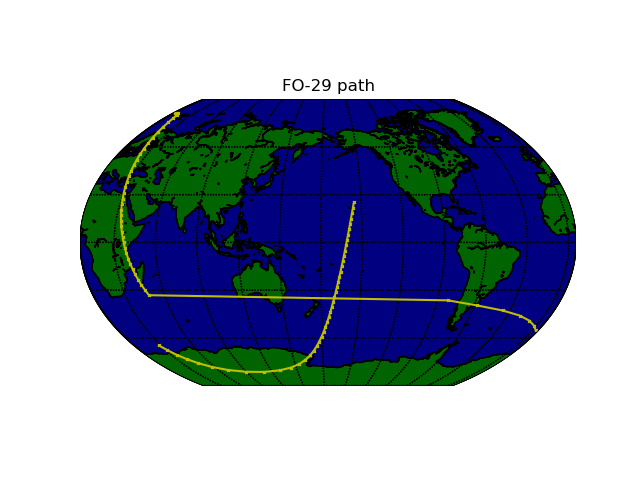
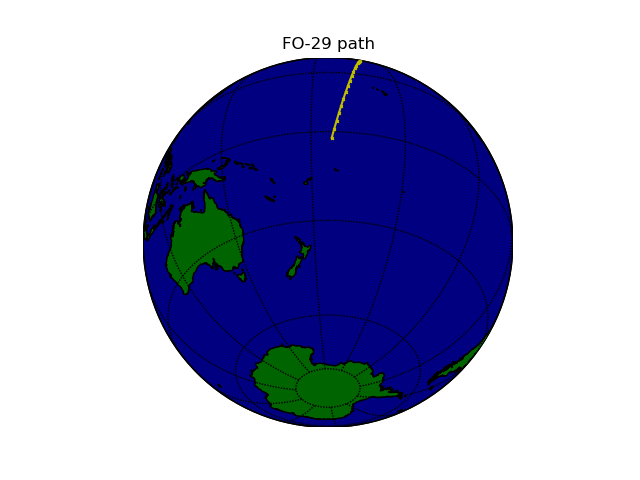
implement #1

Changed region(s): [[0.125, 0.0625, 0.9062, 0.9062]]

diff --git a/PassPredict.py b/PassPredict.py
@@ -5,6 +5,9 @@ import datetime
 import numpy as np
 import matplotlib.pyplot as plt
 import sched, time
+from pytz import timezone
+
+local_time = timezone('Pacific/Auckland')
 
 cfg = dict()
 
@@ -26,6 +29,9 @@ tweeted = []
 
 min_range = 15
 
+auckland_lat = -36.852664
+auckland_long = 174.768017
+
 def check():
     for i in range(len(sats)):
         now = datetime.datetime.utcnow()
@@ -38,9 +44,9 @@ def check():
         ts = load.timescale()
         t = ts.utc(mtime.replace(tzinfo=utc))
         
-        mins = np.arange(1, min_range+30)
+        secs = np.arange(1, 60*(min_range+15))
         
-        trange = ts.utc(now.year, now.month, now.day, now.hour, mins, now.second)
+        trange = ts.utc(now.year, now.month, now.day, now.hour, now.minute, now.second+secs)
         
         
         stations_url = 'http://celestrak.com/NORAD/elements/active.txt'
@@ -54,10 +60,18 @@ def check():
         
         alt, az, distance = topocentric.altaz()
     
-        if alt.degrees > 0 and sat not in tweeted:
-    
-            path = satellite.at(trange).subpoint()
-            
+        if alt.degrees >= 0 and sat not in tweeted:
+            el = (0, '')
+            for tp in trange:
+                diff = satellite - auckland
+                diff = diff.at(tp)
+                elv = float(diff.altaz()[0].degrees)
+                if elv > el[0]:
+                    el = (elv, tp.astimezone(local_time).strftime("%I:%M:%S %p"))
+                    
+            pos = satellite.at(trange)
+            path = pos.subpoint()
+
             plt.clf()
             
             map = Basemap(projection="ortho", lat_0=-36.852670, lon_0=-174.7684, resolution='l')
@@ -69,7 +83,7 @@ def check():
             map.drawcoastlines()
             map.fillcontinents(color='darkgreen', lake_color='navy')
             
-            print(sat)
+            print("Tweeted about {}".format(sat))
             
             lon = path.longitude.degrees
             lat = path.latitude.degrees
@@ -81,7 +95,7 @@ def check():
             
             plt.close()
             
-            tweet = "In {} minutes, {} will be over UoA!".format(min_range, sat)
+            tweet = "In {} minutes, {} will be over UoA! Maximum elevation is {:.2f}° at {}.".format(min_range, sat, *el)
             image = open('figs/{}.png'.format(sat), 'rb')
             
             api.PostUpdate(tweet, media=image)
